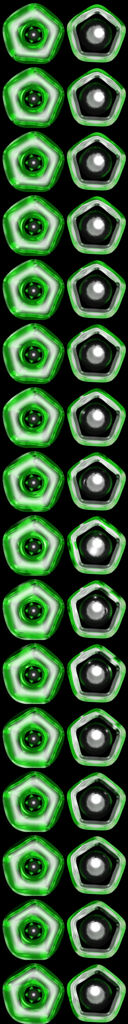
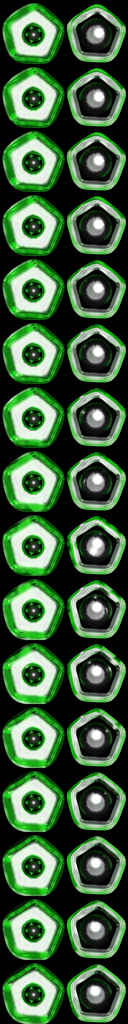
Made taps more distinct, adjusted explosions

Changed region(s): [[0.0625, 0.0, 0.4688, 1.0]]

diff --git a/README.md b/README.md
@@ -6,3 +6,18 @@
 *Promethium*, A name chosen because it's a heavy metal, but also in reference to the story of Promethius. A story about how man's inginuity can create great things, but also create great pain and suffering. This noteskin is an example of brute-forcing an idea to fruition, and as such it showcases what is possible for a noteskin, but also showcases what probably should not be done. This noteskin certainly is "heavy" at nearly 10MB, several times larger than almost any other noteskin I've seen.
 
 As a bit of a promise for the future, this noteskin will serve as the basis for a newer, more streamlined noteskin that I hope to donate to the OutFox project. *Paladium* will be the successor to look for!
+
+-----
+
+## Changelog
+
+#### 8/22/21
+
+Initial release
+
+#### 8/31/21
+
+ - Fixed weirdness with strum hold explosion particles  
+ - Made blue lane models slightly brighter  
+ - Tap notes are more distinct, more transparent and darker than normal notes  
+ - Added flashiness to tap explosions
